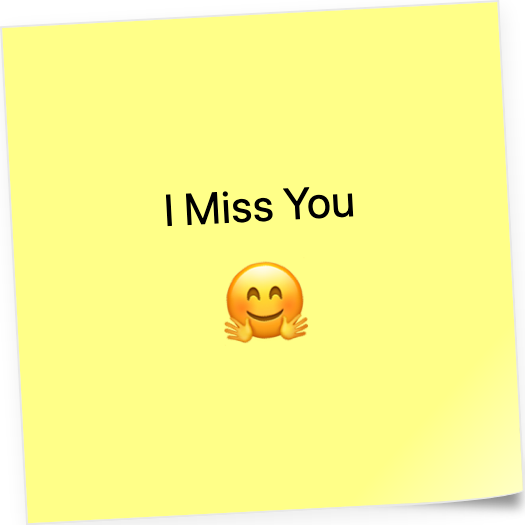
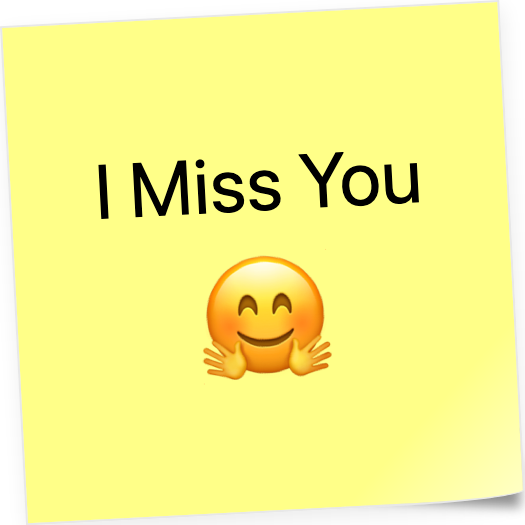
selector and terms

Changed region(s): [[0.2438, 0.2743, 0.8229, 0.4267], [0.3657, 0.4876, 0.64, 0.7314], [0.1829, 0.3048, 0.2133, 0.4267]]

diff --git a/pages/index.js b/pages/index.js
@@ -1,10 +1,12 @@
 import { Component } from "react";
 import "isomorphic-fetch";
+import Link from "next/link";
 import styles from "../styles/home.module.scss";
 import SmartUrlIcon from "../components/smartUrl/smartUrlIcon";
 import SpotifyFollow from "../components/spotifyFollow";
 import { CONST_PERSONAL_MESSAGE__NONE } from "../services/constants";
 import Share from "../components/share";
+import PersonalNoteSelector from "../components/personalNote/selector";
 
 import getConfig from "next/config";
 const {
@@ -21,10 +23,15 @@ const Sender = class sender extends Component {
     this.state = defaultState;
 
     this.resetPage = this.resetPage.bind(this);
+    this.personalNoteChange = this.personalNoteChange.bind(this);
   }
 
   resetPage() {
     this.setState(defaultState);
+  }
+
+  personalNoteChange(e) {
+    this.setState({ msg: e.target.value });
   }
 
   render() {
@@ -56,20 +63,38 @@ const Sender = class sender extends Component {
               Slip the song into a friends playlist
             </legend>
             <div>
-              <div style={{ lineHeight: "1em" }}>
+              <p style={{ lineHeight: "1em" }}>
                 1. Choose a personal note:{" "}
                 <span style={{ fontSize: "12px", color: "#666666" }}>
                   (optional)
                 </span>
-              </div>
+              </p>
+              <PersonalNoteSelector onChange={this.personalNoteChange} />
             </div>
             <div>
               <div style={{ marginBottom: "10px", maxWidth: "400px" }}>
-                2. Select an app to attach the special link
+                <p>
+                  2. Select an app to share the special link. <br />
+                  <span className={styles.appShareExplaination}>
+                    They'll be shown your personal note and the song slipped
+                    into their chosen playlist.
+                  </span>
+                </p>
               </div>
               <Share msg={this.state.msg} />
             </div>
           </fieldset>
+          <p
+            className={styles.appShareExplaination}
+            style={{ marginTop: "40px", textAlign: "center" }}
+          >
+            <Link href="/terms">
+              <a style={{ color: "#464646", textDecoration: "underline" }}>
+                Terms and conditions
+              </a>
+            </Link>{" "}
+            apply. By using this website and sharing you accept these.
+          </p>
         </div>
       </div>
     );

diff --git a/components/personalNote/selector.js b/components/personalNote/selector.js
@@ -1,0 +1,58 @@
+import {
+  CONST_PERSONAL_MESSAGE__NONE,
+  CONST_PERSONAL_MESSAGE__THINKING_OF_YOU,
+  CONST_PERSONAL_MESSAGE__I_MISS_YOU,
+  CONST_PERSONAL_MESSAGE__I_LOVE_YOU,
+  CONST_PERSONAL_MESSAGE__FIST_BUMP,
+} from "../../services/constants";
+import styles from "./selector.module.scss";
+
+export default ({ onChange }) => (
+  <div className={styles.container}>
+    <label>
+      <input
+        onChange={onChange}
+        type="radio"
+        name="personalNote"
+        value={CONST_PERSONAL_MESSAGE__NONE}
+      />
+      <img src="/notes/no-message.png" />
+    </label>
+    <label>
+      <input
+        onChange={onChange}
+        type="radio"
+        name="personalNote"
+        value={CONST_PERSONAL_MESSAGE__THINKING_OF_YOU}
+      />
+      <img src="/notes/thinking-of-you.png" />
+    </label>
+    <label>
+      <input
+        onChange={onChange}
+        type="radio"
+        name="personalNote"
+        value={CONST_PERSONAL_MESSAGE__I_MISS_YOU}
+      />
+      <img src="/notes/i-miss-you.png" />
+    </label>
+    <label>
+      <input
+        onChange={onChange}
+        type="radio"
+        name="personalNote"
+        value={CONST_PERSONAL_MESSAGE__I_LOVE_YOU}
+      />
+      <img src="/notes/i-love-you.png" />
+    </label>
+    <label>
+      <input
+        onChange={onChange}
+        type="radio"
+        name="personalNote"
+        value={CONST_PERSONAL_MESSAGE__FIST_BUMP}
+      />
+      <img src="/notes/fist-bump.png" />
+    </label>
+  </div>
+);

diff --git a/pages/terms.js b/pages/terms.js
@@ -1,0 +1,38 @@
+import Head from "next/head";
+
+export default function About() {
+  return (
+    <div className="container">
+      <Head>
+        <title>Terms and Conditions - PlaylistTune.com</title>
+        <meta name="robots" content="noindex, nofollow"></meta>
+      </Head>
+
+      <main>
+        <p>
+          <strong>TERMS AND CONDITIONS</strong>
+        </p>
+        <p>
+          <strong>Last updated July 31, 2020</strong>
+        </p>
+        <p>
+          By using this website you agree to:
+          <ul>
+            <li>use this website at your own risk.</li>
+            <li>idemnify us should the website be down or discontinued.</li>
+            <li>idemnify us if any errors occur.</li>
+            <li>
+              idemnify us in the event that the wrong personal message gets
+              shown to someone.
+            </li>
+            <li>idemnify us if you select the wrong personal message.</li>
+            <li>
+              that the song "Playlist Tune" by "Kevin Lambert" will be inserted
+              into one of your playlists.
+            </li>
+          </ul>
+        </p>
+      </main>
+    </div>
+  );
+}

diff --git a/components/personalNote/index.js b/components/personalNote/index.js
@@ -10,28 +10,28 @@ import {
 const FistBumpMessage = () => (
   <div>
     <div>Fist Bump</div>
-    <div style={{ fontSize: "42px", marginTop: "16px" }}>👊</div>
+    <div className={styles.emoticon}>👊</div>
   </div>
 );
 
 const ILoveYouMessage = () => (
   <div>
     <div>I Love You</div>
-    <div style={{ fontSize: "42px", marginTop: "16px" }}>❤</div>
+    <div className={styles.emoticon}>❤</div>
   </div>
 );
 
 const ThinkingOfYouMessage = () => (
   <div>
     <div>Thinking of You</div>
-    <div style={{ fontSize: "42px", marginTop: "16px" }}>😊</div>
+    <div className={styles.emoticon}>😊</div>
   </div>
 );
 
 const IMissYouMessage = () => (
   <div>
     <div>I Miss You</div>
-    <div style={{ fontSize: "42px", marginTop: "16px" }}>🤗</div>
+    <div className={styles.emoticon}>🤗</div>
   </div>
 );
 

diff --git a/components/personalNote/selector.module.scss b/components/personalNote/selector.module.scss
@@ -1,0 +1,34 @@
+.container {
+  display: flex;
+  flex-wrap: wrap;
+  justify-content: center;
+
+  /* HIDE RADIO */
+  [type="radio"] {
+    position: absolute;
+    opacity: 0;
+    width: 0;
+    height: 0;
+  }
+
+  /* IMAGE STYLES */
+  [type="radio"] + img {
+    cursor: pointer;
+  }
+
+  /* CHECKED STYLES */
+  [type="radio"]:checked + img {
+    border: 4px solid green;
+    border-radius: 20px;
+    box-shadow: inset 1px 2px 4px #808080cc;
+  }
+
+  img {
+    width: 116px;
+    padding: 10px;
+    background-color: white;
+    border-radius: 20px;
+    margin: 4px 8px;
+    box-shadow: 1px 2px 4px #808080cc;
+  }
+}

diff --git a/components/personalNote/personalNote.module.scss b/components/personalNote/personalNote.module.scss
@@ -4,6 +4,11 @@
   transform: rotate3d(0, 0, 1, -3deg);
 }
 
+.emoticon {
+  font-size: 1.7em;
+  margin-top: 16px;
+}
+
 $postitSize: 250px;
 
 .postit {
@@ -19,7 +24,7 @@ $postitSize: 250px;
   max-height: $postitSize;
   position: relative;
   border: 1px solid #e8e8e8;
-  font-size: 22px;
+  font-size: 38px;
   border-bottom-right-radius: 60px 5px;
 
   background: #ffff88; /* Old browsers */

diff --git a/components/layout.js b/components/layout.js
@@ -66,6 +66,10 @@ const Layout = ({ children, router }) => {
           <Link href="/privacy-policy">
             <a>Privacy</a>
           </Link>
+          {" | "}
+          <Link href="/terms">
+            <a>Terms</a>
+          </Link>
         </nav>
         <br />
         <p>

diff --git a/styles/global.scss b/styles/global.scss
@@ -4,7 +4,7 @@ body {
   margin: 0;
   font-family: -apple-system, BlinkMacSystemFont, Segoe UI, Roboto, Oxygen,
     Ubuntu, Cantarell, Fira Sans, Droid Sans, Helvetica Neue, sans-serif;
-  line-height: 1.6;
+  line-height: 1.3;
   font-size: 18px;
 }
 

diff --git a/styles/home.module.scss b/styles/home.module.scss
@@ -64,3 +64,11 @@
   border: 1px solid;
   box-shadow: 3px 3px gray;
 }
+
+.appShareExplaination {
+  font-size: 16px;
+  color: #464646;
+  line-height: 1.3em;
+  display: block;
+  margin-top: 6px;
+}
